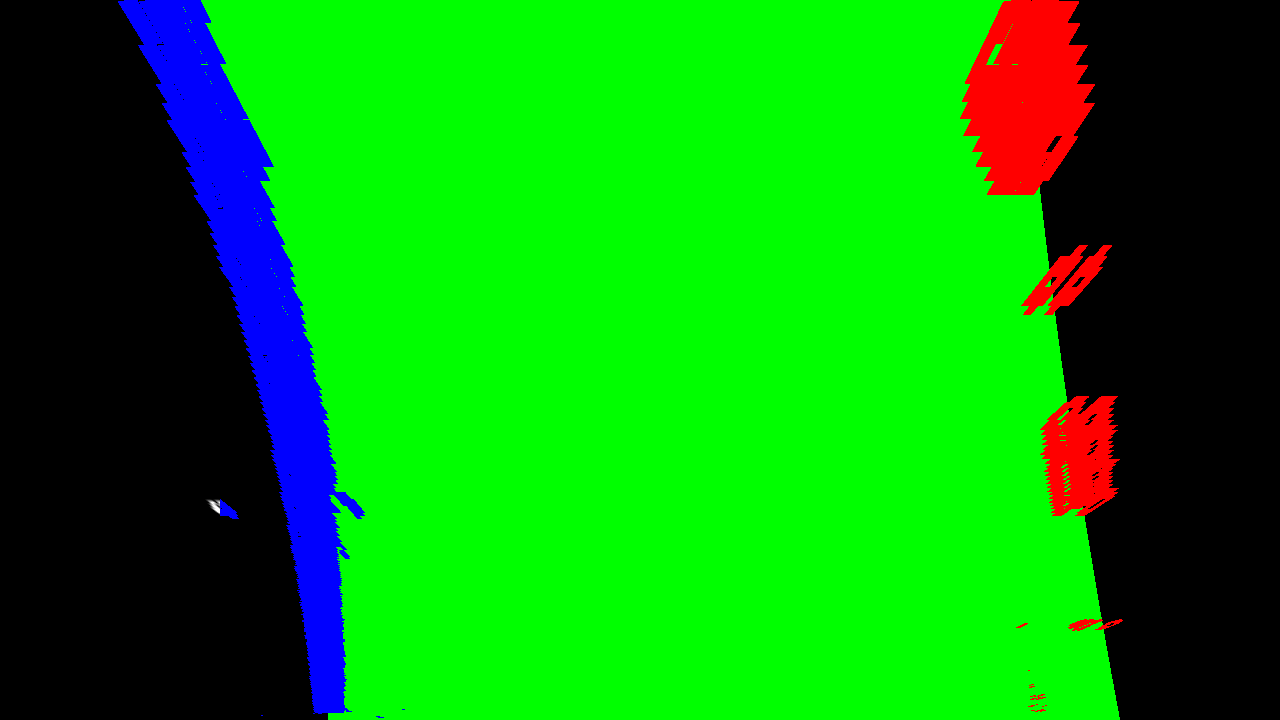
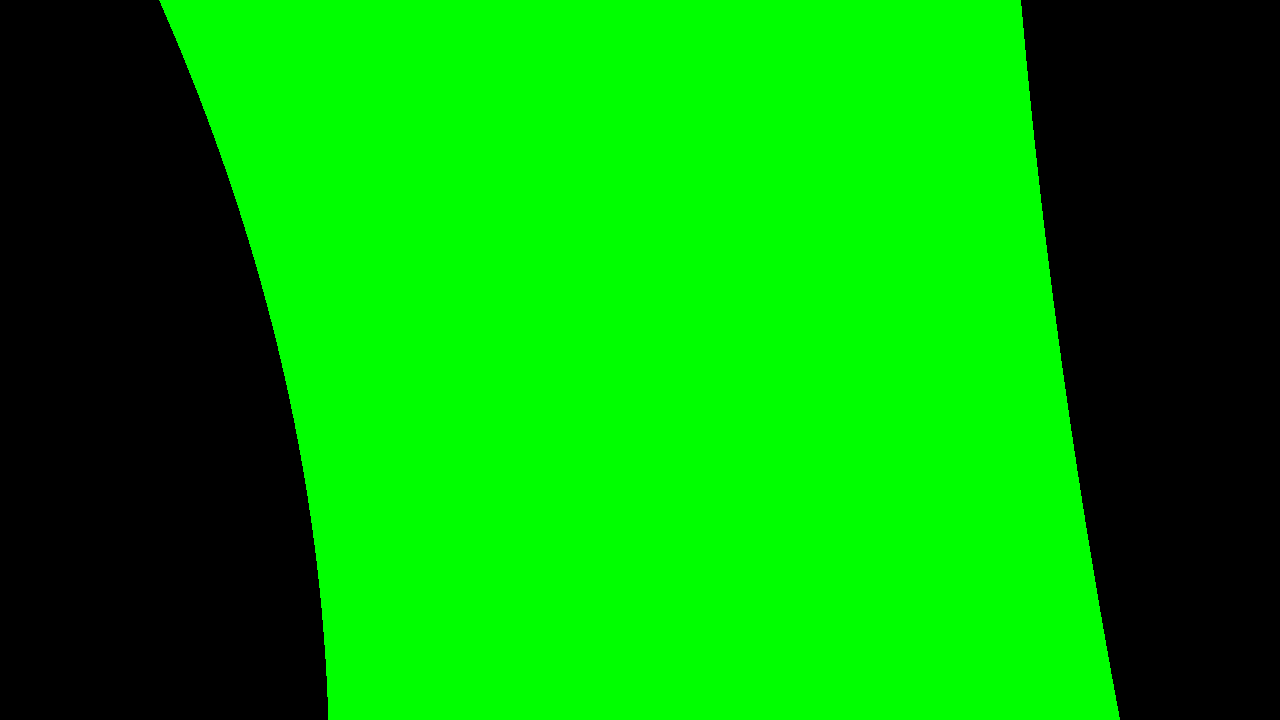
add lane visualizer

diff --git a/adv_lane_detection.py b/adv_lane_detection.py
@@ -26,6 +26,9 @@ def perspective_transform_cli():
 def lane_finder_cli():
     pass
 
+@click.group()
+def lane_visualizer_cli():
+    pass
 
 @calibrate_cli.command()
 @click.option('--input-dir', default='data', help='Input directory of camera calibration images.',
@@ -107,14 +110,39 @@ def lane_finder(input_dir, output_dir):
         if filename.endswith('.jpg') or filename.endswith('.png'):
             image = cv2.imread(os.path.join(input_dir, filename))
             image = cv2.cvtColor(image, cv2.COLOR_BGR2GRAY)
-            lane_finder = LaneFinder(image)
-            lane_finder.slide_window()
-            cv2.imwrite(os.path.join(output_dir, filename), lane_finder.visualize())
+            finder = LaneFinder(image)
+            finder.slide_window()
+            cv2.imwrite(os.path.join(output_dir, filename), finder.visualize())
+
+
+@lane_visualizer_cli.command()
+@click.option('--input-dir', help='Input directory contains perspective gray images for finding lanes.',
+              prompt='Input directory')
+@click.option('--original-dir', help='Input directory contains undistorted images for finding lanes.',
+              prompt='Input directory')
+@click.option('--output-dir', help='Output directory for images.',
+              prompt='Output directory')
+def lane_visualizer(input_dir, original_dir, output_dir):
+    if not os.path.exists(output_dir):
+        os.makedirs(output_dir)
+    filenames = os.listdir(input_dir)
+    for filename in filenames:
+        if filename.endswith('.jpg') or filename.endswith('.png'):
+            image = cv2.imread(os.path.join(input_dir, filename))
+            image = cv2.cvtColor(image, cv2.COLOR_BGR2GRAY)
+            finder = LaneFinder(image)
+            finder.slide_window()
+            overlay = finder.visualize(draw_lane_pixels=False, draw_on_image=False)
+            undist = cv2.imread(os.path.join(original_dir, filename))
+            pers_img = PerspectiveTransform(overlay)
+            inverse_pers_img = pers_img.get_inverse()
+            undist_overlay = cv2.addWeighted(undist, 1, inverse_pers_img, 0.3, 0)
+            cv2.imwrite(os.path.join(output_dir, filename), undist_overlay)
 
 
 if __name__ == '__main__':
     cli = click.CommandCollection(sources=[calibrate_cli, test_calibrate_cli,
                                            binary_image_cli, perspective_transform_cli,
-                                           lane_finder_cli])
+                                           lane_finder_cli, lane_visualizer_cli])
     cli()
 

diff --git a/lane_finder.py b/lane_finder.py
@@ -75,11 +75,13 @@ class LaneFinder:
         self.left_fit = np.polyfit(left_y, left_x, 2)
         self.right_fit = np.polyfit(right_y, right_x, 2)
 
-    def visualize(self):
+    def visualize(self, draw_on_image=True, draw_lane_pixels=True, draw_lane=True):
         ''' visualize founded lanes and windows on image '''
         if self.left_fit is None or self.right_fit is None:
             return None
         vis_img = np.dstack((self.image, self.image, self.image))
+        if not draw_on_image:
+            vis_img = np.zeros_like(vis_img)
         ploty = np.linspace(0, self.image.shape[0] - 1, self.image.shape[0])
         left_fitx = self.left_fit[0] * ploty ** 2 + self.left_fit[1] * ploty + self.left_fit[2]
         right_fitx = self.right_fit[0] * ploty ** 2 + self.right_fit[1] * ploty + self.right_fit[2]
@@ -91,9 +93,12 @@ class LaneFinder:
         pts_right = np.array([np.flipud(np.transpose(np.vstack([right_fitx, ploty])))])
         pts = np.hstack((pts_left, pts_right))
 
-        cv2.fillPoly(vis_img, np.int_([pts]), (0, 255, 0))
+        if draw_lane:
+            cv2.fillPoly(vis_img, np.int_([pts]), (0, 255, 0))
 
-        vis_img[nonzero_y[self.left_lane_inds], nonzero_x[self.left_lane_inds]] = [255, 0, 0]
-        vis_img[nonzero_y[self.right_lane_inds], nonzero_x[self.right_lane_inds]] = [0, 0, 255]
+        if draw_lane_pixels:
+            vis_img[nonzero_y[self.left_lane_inds], nonzero_x[self.left_lane_inds]] = [255, 0, 0]
+            vis_img[nonzero_y[self.right_lane_inds], nonzero_x[self.right_lane_inds]] = [0, 0, 255]
 
         return vis_img
+

diff --git a/perspective_transform.py b/perspective_transform.py
@@ -17,7 +17,10 @@ class PerspectiveTransform:
              [(self.img_size[0] * 4 / 5), self.img_size[1]],
              [(self.img_size[0] * 4 / 5), 0]])
         self.M = cv2.getPerspectiveTransform(self.src, self.dst)
+        self.Minv = cv2.getPerspectiveTransform(self.dst, self.src)
 
     def get(self):
         return cv2.warpPerspective(self.image, self.M, self.img_size, flags=cv2.INTER_LINEAR)
 
+    def get_inverse(self):
+        return cv2.warpPerspective(self.image, self.Minv, self.img_size, flags=cv2.INTER_LINEAR)

diff --git a/README.md b/README.md
@@ -58,6 +58,9 @@ python adv_lane_detection.py lane_finder --input-dir output_images\perspective -
 ```
 * Determine the curvature of the lane and vehicle position with respect to center.
 * Warp the detected lane boundaries back onto the original image.
+```bash
+python adv_lane_detection.py lane_visualizer --input-dir output_images\perspective --original-dir output_images\undist --output-dir output_images\final
+```
 * Output visual display of the lane boundaries and numerical estimation of lane curvature and vehicle position.
 
 The images for camera calibration are stored in the folder called `camera_cal`.  The images in `test_images` are for testing your pipeline on single frames.  If you want to extract more test images from the videos, you can simply use an image writing method like `cv2.imwrite()`, i.e., you can read the video in frame by frame as usual, and for frames you want to save for later you can write to an image file.  
